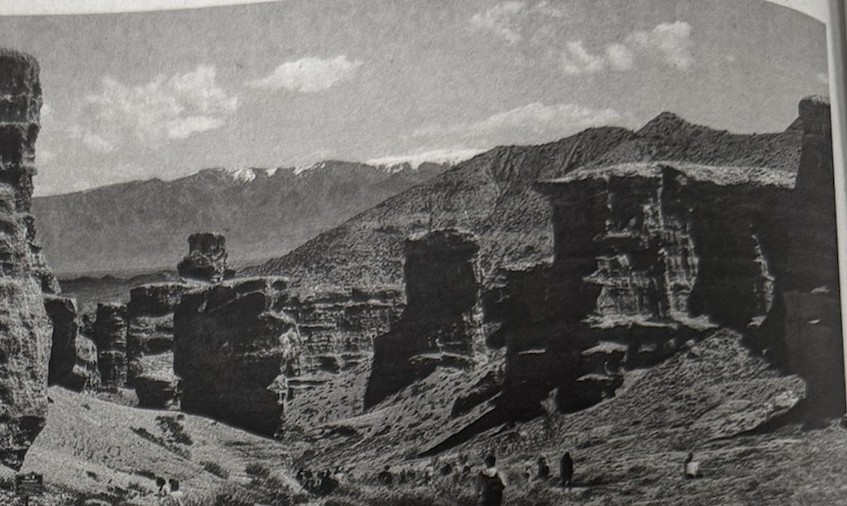
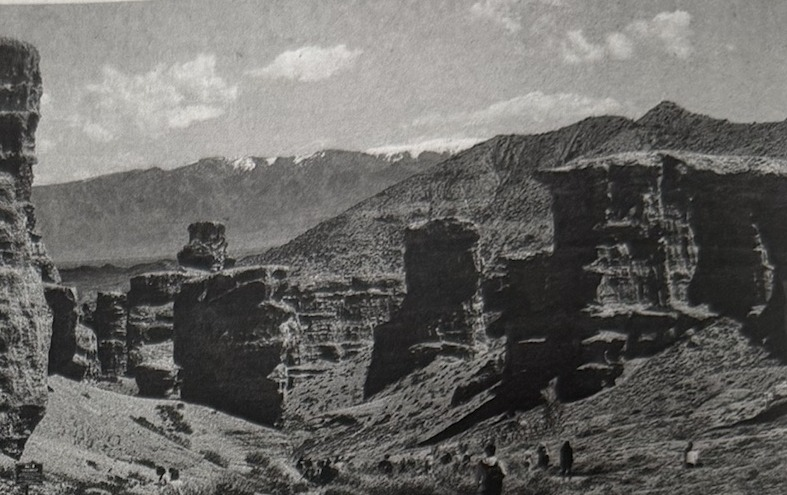
디자인 2차 리뉴얼: 사진 여백 완전 제거 + 풀블리드 처리
사진 여백/침범 제거:
- p1_mou, p2_canyon, p3_horse, p7_podium, p8_scat 재크롭 — 신문
  지면 흰 여백, 나무책상 모서리, 옆 기사 텍스트 침범, 페이지
  말림 흔적 등을 원본에서 다시 크롭해 제거
- p8_gogi는 여백 있는 3장 조합 대신, 픽셀 분산 분석으로 경계를
  찾아 가장 선명한 사진 1장만 깔끔하게 재선택

레이아웃/디자인:
- 1면 톱기사·특집 정상회의 사진을 풀블리드(뷰포트 전체 폭) 처리 —
  테두리·그림자 없이 뷰포트 끝까지 꽉 차는 커버 이미지로 전환
- 나머지 본문 내 사진도 테두리·그림자 프레임 제거, 여백 없이
  본문 컬럼에 꽉 차도록 정리
- 모든 사진에 은은한 세피아 톤(sepia 8%) 추가해 크림 배경지와
  색감 통일
- 마스트헤드 하단에 클래식 신문 특유의 이중 룰선 적용
- 미사용 .photo-row CSS 제거

전 구간(320~1440px) 가로 스크롤 없음 재검증 완료.

Claude-Session: https://claude.ai/code/session_01Ka5aoKhcN2pH5iqvEYVUu7

diff --git a/hanin-ilbo/index.html b/hanin-ilbo/index.html
@@ -70,7 +70,11 @@
   .utilbar strong{ color:var(--gold); font-weight:600; }
 
   /* ---------- MASTHEAD ---------- */
-  .masthead{ border-bottom:3px solid var(--rule); background:var(--paper); }
+  .masthead{
+    border-bottom:3px solid var(--rule); background:var(--paper);
+    box-shadow:0 5px 0 0 var(--paper), 0 6px 0 0 var(--rule-light);
+    margin-bottom:5px;
+  }
   .masthead-inner{
     padding:30px 0 18px; display:flex; align-items:flex-end; justify-content:space-between;
     flex-wrap:wrap; gap:12px 28px; border-bottom:1px solid var(--rule-light);
@@ -126,8 +130,12 @@
     line-height:1.25; color:var(--ink); margin:0 0 14px; letter-spacing:-.008em; text-wrap:balance;
   }
   .hero-dek{ font-size:var(--fs-xl); color:var(--muted); font-weight:450; margin:0 0 20px; line-height:1.55; }
-  .hero-photo{ margin:0 0 10px; border:1px solid var(--rule-light); box-shadow:var(--shadow-sm); }
-  .hero-photo img{ width:100%; height:auto; filter:grayscale(100%) contrast(1.05); }
+  .hero-photo{ margin:0 0 10px; }
+  .hero-photo img{ width:100%; height:auto; display:block; filter:grayscale(100%) sepia(8%) contrast(1.08) brightness(.98); }
+  .hero-photo.bleed{
+    width:100vw; margin-left:calc(50% - 50vw); margin-right:calc(50% - 50vw);
+  }
+  .hero-photo.bleed img{ width:100%; height:min(58vh,540px); object-fit:cover; }
   .cap{ font-size:var(--fs-xs); color:var(--muted); padding:10px 2px 0; border-top:2px solid var(--ink); margin-bottom:32px; line-height:1.6; }
   .byline{ font-size:var(--fs-sm); color:var(--muted); margin-bottom:22px; padding-bottom:16px; border-bottom:1px solid var(--rule-light); }
   .article-body{ columns:1; font-size:17px; line-height:1.9; color:var(--text); }
@@ -158,14 +166,9 @@
 
   /* ---------- OPINION / COLUMN ---------- */
   .author-box{ display:flex; align-items:center; gap:16px; margin-bottom:22px; }
-  .author-box img{ width:60px; height:60px; object-fit:cover; border-radius:50%; filter:grayscale(100%); border:2px solid var(--ink); }
+  .author-box img{ width:60px; height:60px; object-fit:cover; border-radius:50%; filter:grayscale(100%) sepia(8%) contrast(1.08) brightness(.98); border:2px solid var(--ink); }
   .author-box .name{ font-weight:700; color:var(--ink); font-size:var(--fs-md); }
   .author-box .role{ font-size:var(--fs-xs); color:var(--muted); margin-top:2px; }
-  .photo-row{ display:grid; grid-template-columns:minmax(0,1fr); gap:20px; margin:26px 0; }
-  @media(min-width:700px){ .photo-row{ grid-template-columns:minmax(0,1fr) minmax(0,1fr); } }
-  .photo-row figure{ margin:0; border:1px solid var(--rule-light); box-shadow:var(--shadow-sm); }
-  .photo-row img{ width:100%; height:220px; object-fit:cover; filter:grayscale(100%) contrast(1.05); }
-
   /* ---------- NEWS CARDS (경제 등) ---------- */
   .news-grid{ display:grid; grid-template-columns:minmax(0,1fr); gap:36px; }
   @media(min-width:800px){ .news-grid{ grid-template-columns:minmax(0,1fr) minmax(0,1fr); } }
@@ -209,7 +212,7 @@
   @media(min-width:1040px){ .ad-card.wide{ grid-column:span 2; } }
   .ad-card{ border:1px solid var(--rule-light); background:#fff; padding:20px 22px; box-shadow:var(--shadow-sm); }
   .ad-photo{ margin:-20px -22px 16px; overflow:hidden; }
-  .ad-photo img{ width:100%; height:130px; object-fit:cover; filter:grayscale(100%) contrast(1.05); }
+  .ad-photo img{ width:100%; height:130px; object-fit:cover; filter:grayscale(100%) sepia(8%) contrast(1.08) brightness(.98); }
   table.staff{ width:100%; table-layout:fixed; border-collapse:collapse; font-size:var(--fs-xs); margin:12px 0; }
   table.staff th, table.staff td{ padding:6px 7px; text-align:left; border-bottom:1px dashed var(--rule-light); overflow-wrap:anywhere; }
   table.staff th{ color:var(--muted); font-weight:600; }
@@ -284,7 +287,7 @@
       <div class="hero-kicker">현대차그룹, 카자흐스탄 최대 신도시 개발사업 참여</div>
       <h1 class="hero-title">알라타우 시티 프로젝트 협약<br>모빌리티·에너지·디지털 협력 검토</h1>
       <p class="hero-dek">현대차그룹, 카스피안 그룹·유나이티드 그룹 알라타우와 업무협약 체결 — 피지컬 AI 기반 미래도시 사업 모색</p>
-      <figure class="hero-photo">
+      <figure class="hero-photo bleed">
         <img src="images/p1_mou.jpg" alt="한·중앙아시아 비즈니스 업무협약 체결식, 2026년 9월 16일 서울">
       </figure>
       <p class="cap">현대차그룹, 카자흐스탄 기업과 알라타우 시티 사업 추진 협약 체결 [현대차그룹 제공] · 한·중앙아시아 비즈니스 업무협약 체결식(2026.9.16, 서울)</p>
@@ -314,7 +317,7 @@
         <span>핵심광물·에너지·중간회랑·AI···한국의 미래 공급망과 유라시아 전략이 만나는 곳</span>
       </p>
 
-      <figure class="hero-photo">
+      <figure class="hero-photo bleed">
         <img src="images/p6_summit.jpg" alt="2026년 제1차 한·중앙아시아 정상회의, Первый Саммит Корея-Центральная Азия 2026">
       </figure>
       <p class="cap">2026년 제1차 한·중앙아시아 정상회의 — 카자흐스탄·타지키스탄·우즈베키스탄·한국·투르크메니스탄·키르기스스탄 정상이 함께했다. [연합뉴스]</p>
